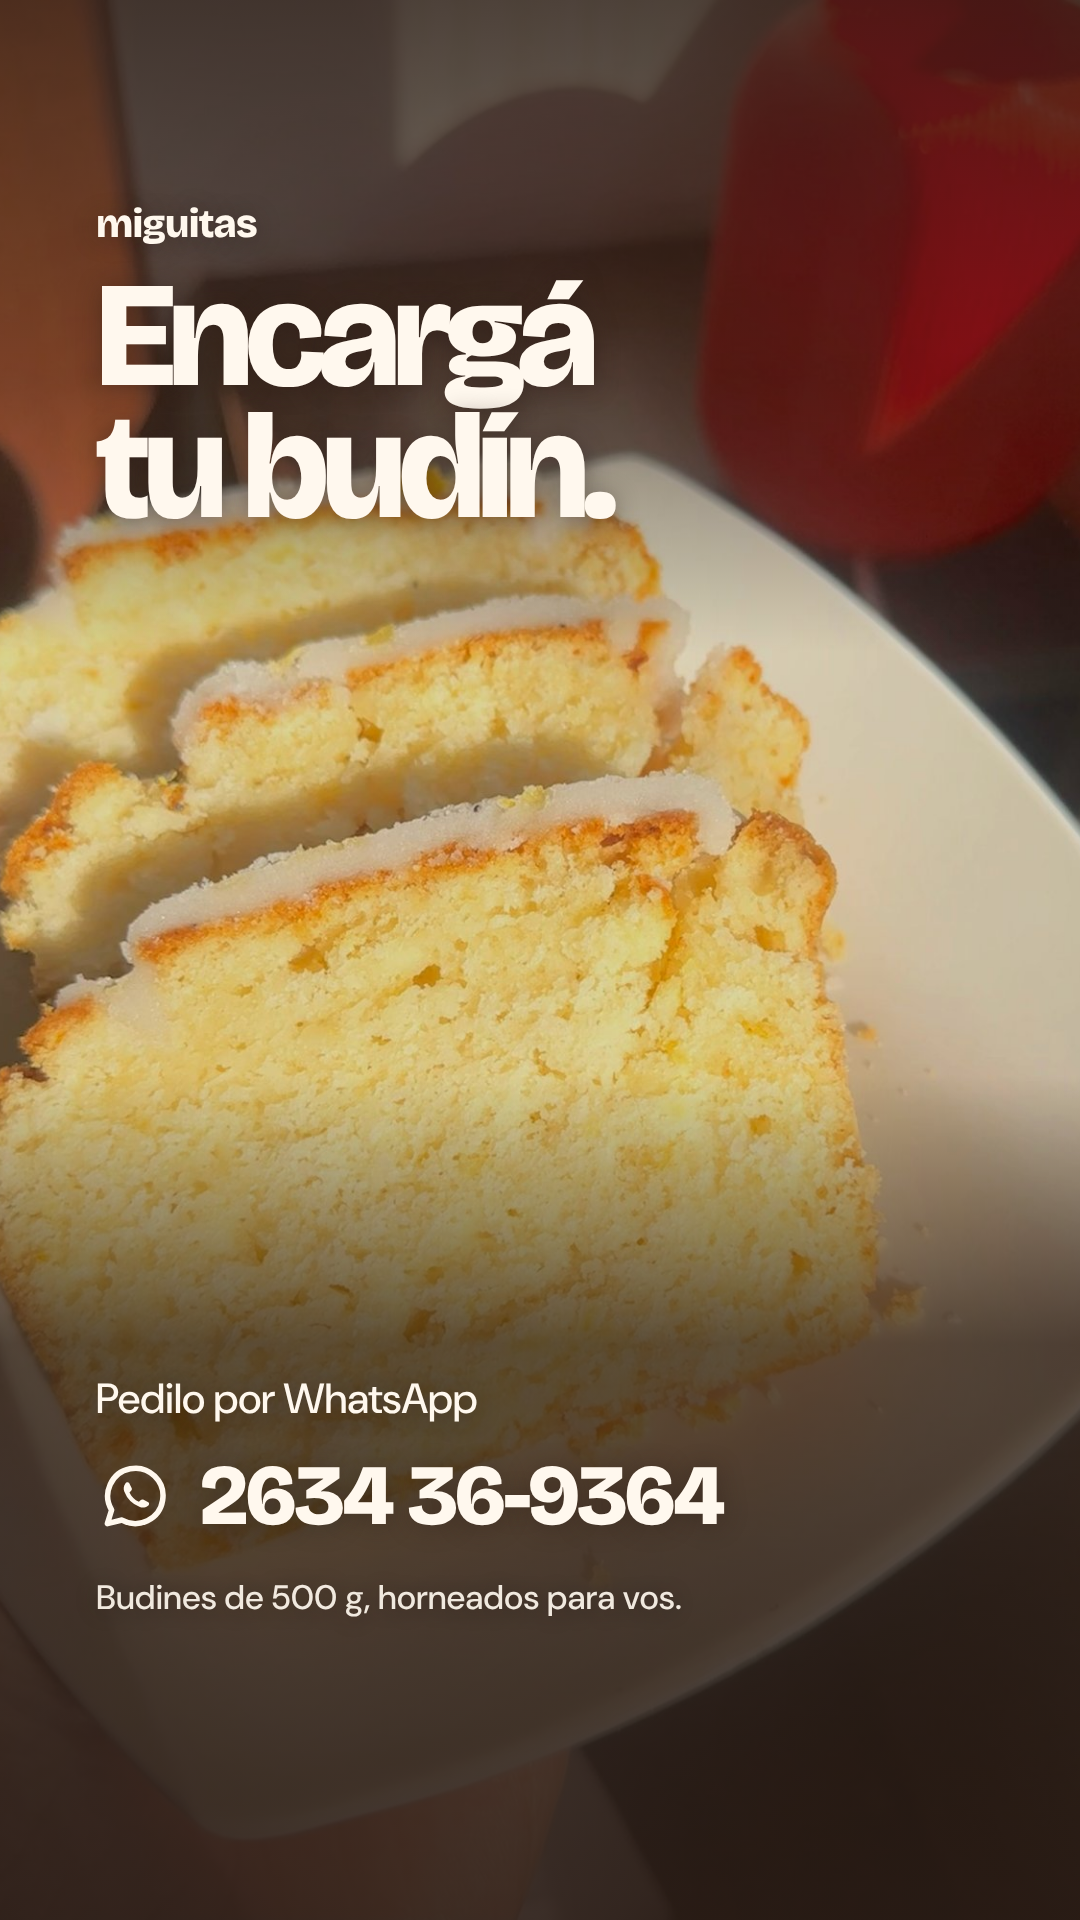
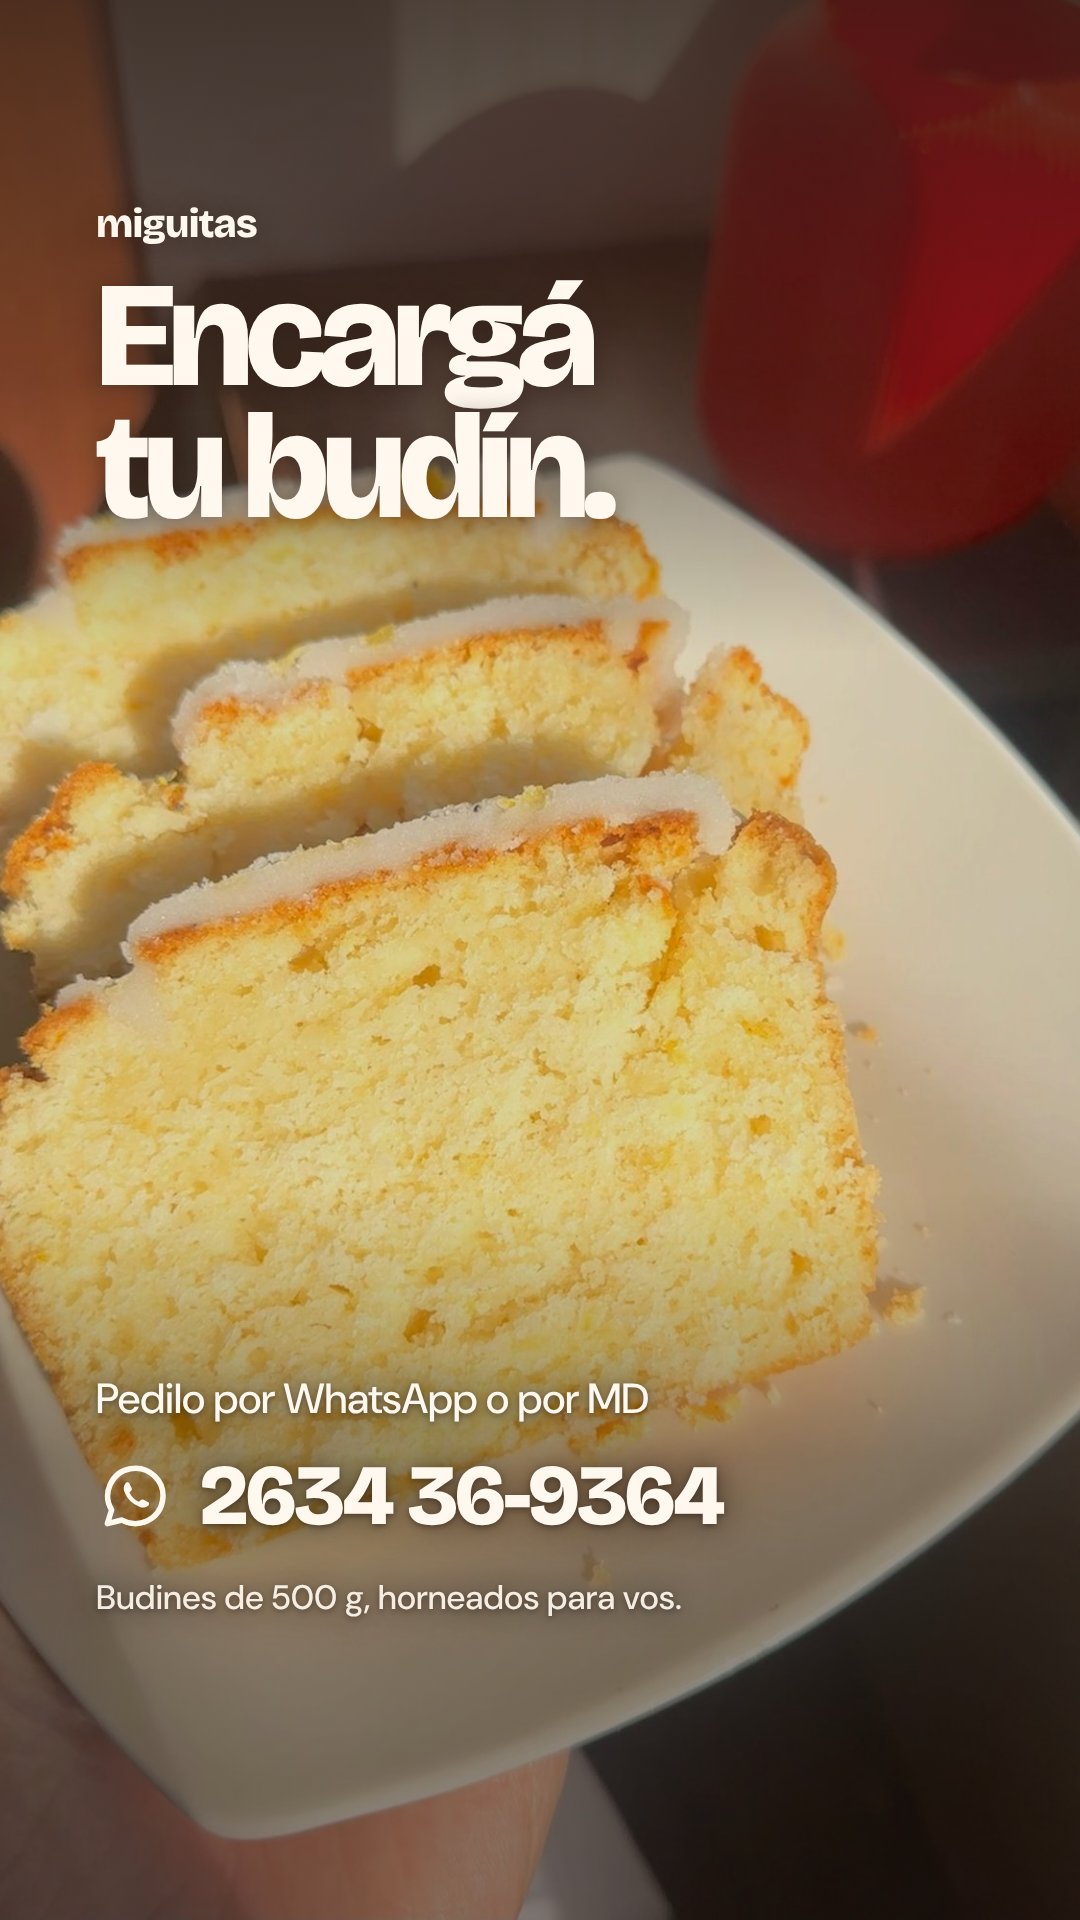
Historia encargá: menos degradé abajo y pedido por MD
Claude-Session: https://claude.ai/code/session_01AV7UuVhKxUTNvFiCSwisCu

diff --git a/historias/encarga-tu-budin.html b/historias/encarga-tu-budin.html
@@ -6,10 +6,11 @@
 *{margin:0;padding:0;box-sizing:border-box}
 html,body{width:1080px;height:1920px;font-family:var(--texto)}
 .h{position:relative;width:1080px;height:1920px;background:url(limon-plato.jpg) 50% 60%/cover;color:var(--crema);overflow:hidden}
-.h::before{content:"";position:absolute;inset:0;background:linear-gradient(180deg,rgba(43,29,22,.8) 0%,rgba(43,29,22,.5) 20%,rgba(43,29,22,0) 34%,rgba(43,29,22,0) 56%,rgba(43,29,22,.72) 70%,rgba(43,29,22,.9) 100%)}
+.h::before{content:"";position:absolute;inset:0;background:linear-gradient(180deg,rgba(43,29,22,.8) 0%,rgba(43,29,22,.5) 20%,rgba(43,29,22,0) 34%,rgba(43,29,22,0) 62%,rgba(43,29,22,.38) 76%,rgba(43,29,22,.5) 100%)}
 .top,.bot{position:absolute;left:96px;right:96px}
 .top{top:200px}
-.top,.bot{text-shadow:0 2px 24px rgba(43,29,22,.45)}
+.top{text-shadow:0 2px 24px rgba(43,29,22,.45)}
+.bot{text-shadow:0 2px 6px rgba(43,29,22,.55),0 0 34px rgba(43,29,22,.75)}
 .marca{font-family:var(--display);font-weight:800;font-size:40px;letter-spacing:-.02em}
 h1{margin-top:22px;font-family:var(--display);font-weight:800;font-size:150px;letter-spacing:-.05em;line-height:.88}
 .bot{bottom:300px}
@@ -24,7 +25,7 @@ h1{margin-top:22px;font-family:var(--display);font-weight:800;font-size:150px;le
     <h1>Encargá<br>tu budín.</h1>
   </div>
   <div class="bot">
-    <div class="cta">Pedilo por WhatsApp</div>
+    <div class="cta">Pedilo por WhatsApp o por MD</div>
     <div class="wa"><svg viewBox="0 0 24 24" fill="none" stroke="#fff8ee" stroke-width="1.7" stroke-linejoin="round"><path d="M3.5 20.5l1.3-4.2A8.5 8.5 0 1 1 8 19.4z"/><path d="M9 8.2c.3-.5.9-.6 1.2-.2l.8 1.6c.1.3 0 .6-.2.8l-.5.5c.6 1.3 1.6 2.3 2.9 2.9l.5-.5c.2-.2.5-.3.8-.2l1.6.8c.4.2.3.9-.2 1.2-.7.5-1.6.6-2.4.3A8.4 8.4 0 0 1 8.7 10.6c-.3-.8-.2-1.7.3-2.4z" fill="#fff8ee" stroke="none"/></svg>2634 36-9364</div>
     <div class="nota">Budines de 500 g, horneados para vos.</div>
   </div>
